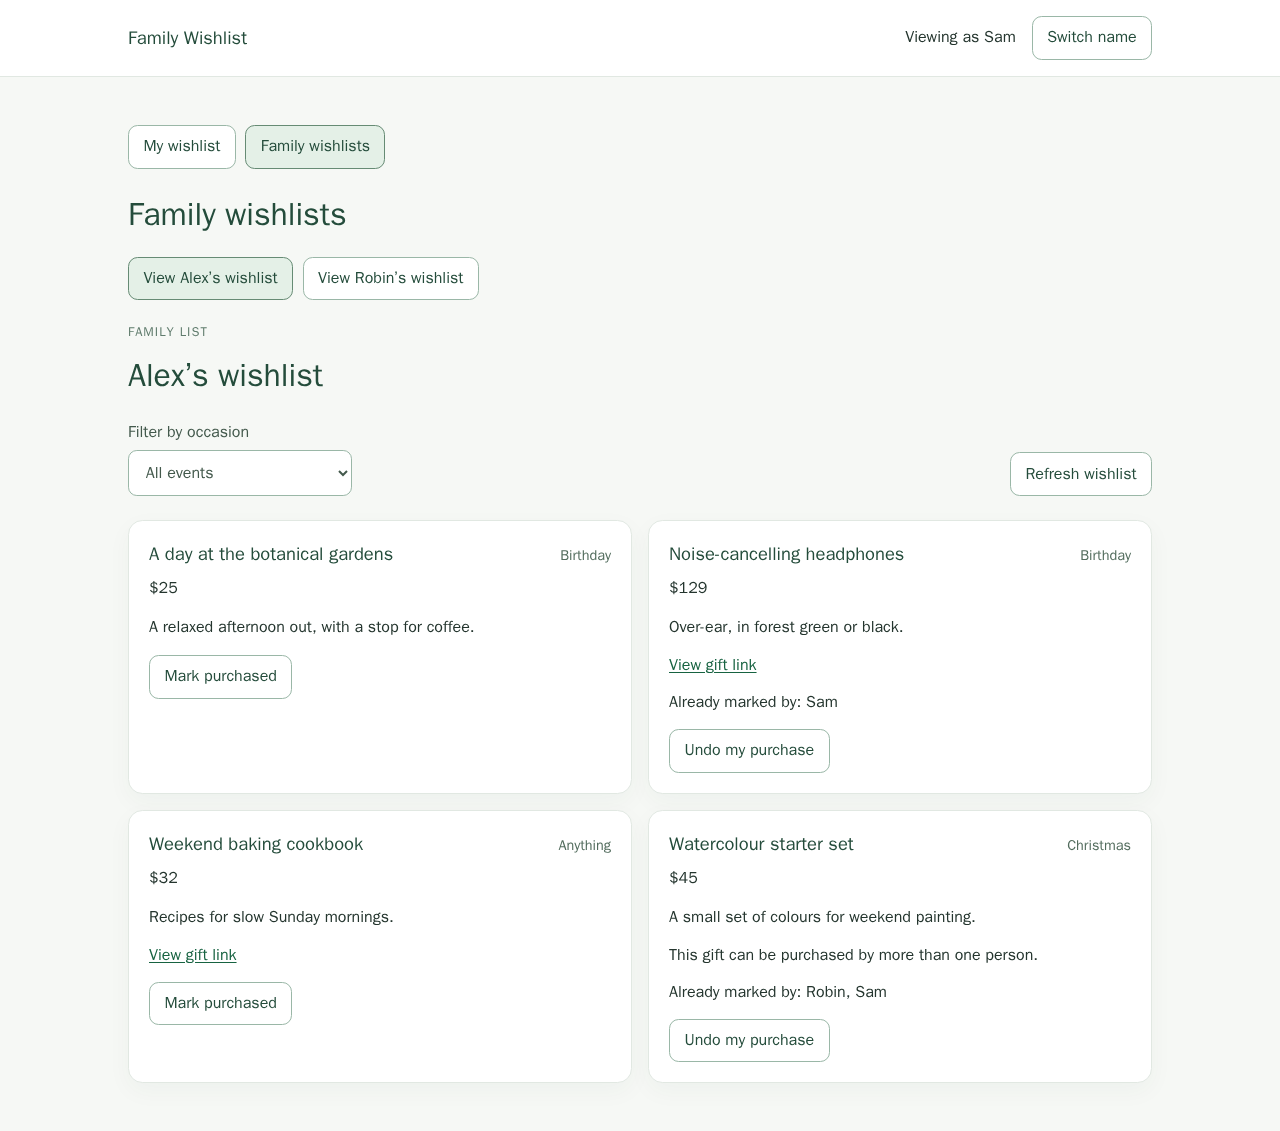
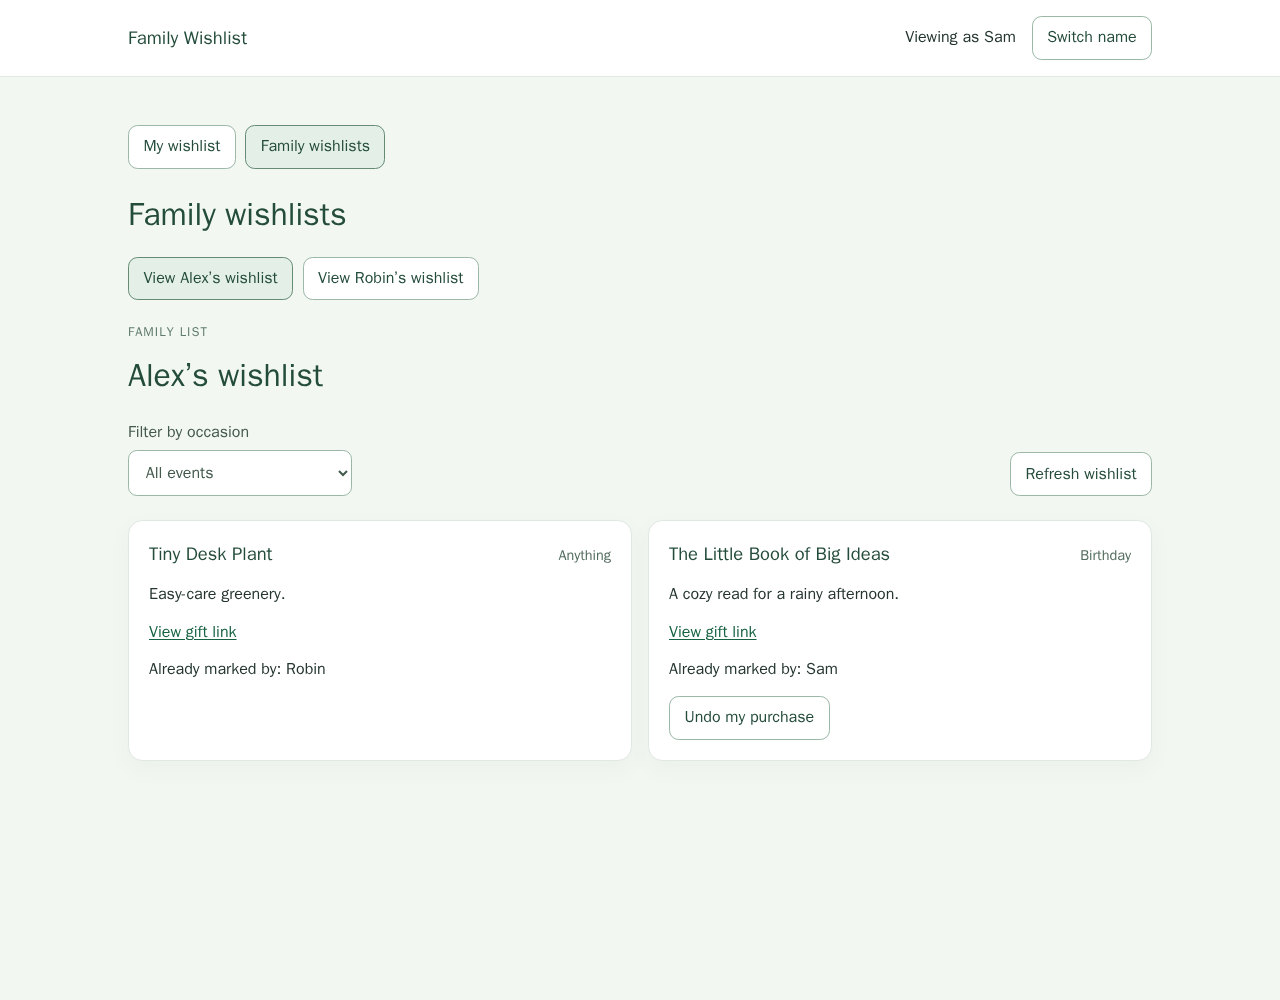
docs: refresh source-preview screenshots and guidance

diff --git a/docs/images/README.md b/docs/images/README.md
@@ -1,24 +1,26 @@
 # Screenshot provenance
 
-The README images are actual Chromium captures of the published
-`ghcr.io/klottick/present-wishlist:0.1.0` application, taken on 2026-10-16.
-They are not mockups, and no application styling was overridden for the captures.
+The README images are actual Chromium captures of the source at `f479492` (demo
+commands and UI task) taken on 2026-10-19. They are not captures of the older published
+`ghcr.io/klottick/present-wishlist:0.1.0` image, mockups, or styling overrides.
 
 | Image | Browser viewport | View |
 | --- | --- | --- |
-| `wishlist-owner-desktop.png` | 1280×900 | Alex managing four gift ideas; purchase details are absent. |
-| `wishlist-buyer-desktop.png` | 1280×1000 | Sam browsing Alex's list; own undo controls and Robin/Sam purchase marks are visible. |
-| `wishlist-mobile.png` | 390×844 | Alex filtering Christmas, which also includes Anything gifts; no horizontal overflow. |
+| `wishlist-owner-desktop.png` | 1280×900 | Alex's list with synthetic demo gifts; purchase details are absent. |
+| `wishlist-buyer-desktop.png` | 1280×1000 | Sam browsing Alex's list with synthetic purchase marks and buyer controls. |
+| `wishlist-mobile.png` | 390×844 | Alex's list on mobile, including the occasion filter; no horizontal overflow. |
 
 Images capture the full page, so their stored height may exceed the viewport.
 Names, gifts, prices and links are synthetic; external links use `example.com`.
-Only an isolated temporary YAML file, database volume and loopback port were
-used. No real family records, credentials, browser storage or developer tools
-appear in the images.
+The current source's `seed_demo` command populated a temporary YAML-configured
+SQLite database. Only isolated loopback ports, temporary database/config files,
+and private browser contexts were used. The owned app processes and temporary
+files were cleaned after capture. No real family records, credentials, browser
+storage or developer tools appear in the images.
 
-To refresh the screenshots, run the released image with disposable configuration
-and storage, populate fictional gifts and buyer marks, then use separate browser
-contexts for owner and buyer. Wait for completed list loading and fonts before
-capturing. Confirm owner purchase privacy, expected buyer controls and mobile
-overflow checks. Remove only the resources created for the capture, and update
-this record if the version or viewport changes.
+To refresh the screenshots, follow the isolated source-preview procedure in the
+task report or run the current source with disposable configuration and storage.
+Use separate browser contexts for owner and buyer. Wait for completed list loading
+and fonts before capturing. Confirm owner purchase privacy, expected buyer
+controls and mobile overflow checks. Remove only the resources created for the
+capture, and update this record if the source revision or viewport changes.

diff --git a/README.md b/README.md
@@ -22,7 +22,9 @@ to the internet or untrusted users; accounts and TLS are not included.
 
 ## Screenshots
 
-The screenshots show the released application with fictional names and gift data.
+The screenshots show a source-development preview, not the older released `0.1.0`
+image. They use fictional names and gift data; see the
+[screenshot provenance](docs/images/README.md).
 
 ### Your wishlist
 
@@ -42,6 +44,11 @@ Other family members can see purchase marks and coordinate their own purchases.
 <img src="docs/images/wishlist-mobile.png" alt="Alex's wishlist on a narrow mobile screen, with an occasion filter and vertically arranged gift cards" width="320">
 
 ## Quick start
+
+The released `0.1.0` image does not include the newer demo-data commands or UI
+shown in the source-preview screenshots. The quick start below intentionally
+continues to install that published release. To run the current source preview,
+follow [development setup](docs/development.md#run-the-application) instead.
 
 Install Docker Engine with Compose, or Docker Desktop in **Linux-container mode**.
 Images support Linux `amd64` and `arm64`; ARM requires a 64-bit OS. Python, Node.js
@@ -101,9 +108,9 @@ for validation rules, removing/reactivating entries and development paths.
    **Family wishlists** to browse someone else's list.
 2. Assign a gift to one occasion or leave it as **Anything**. An occasion filter
    includes Anything gifts; the Anything-only filter shows only unassigned gifts.
-3. Mark someone else's gift purchased. Ordinary gifts allow one buyer; gifts
-   with **Allow multiple purchases** allow one mark per different buyer. There is
-   no quantity field. Buyers can undo only their own marks.
+3. Mark someone else's gift purchased. Ordinary gifts allow one buyer; check
+   **Can be purchased multiple times.** to allow one mark per different buyer.
+   There is no quantity field. Buyers can undo only their own marks.
 4. Use the refresh control to see changes from other people. Live push updates
    are not provided.
 
@@ -129,7 +136,7 @@ environment settings, backup/restore, exact-version updates and troubleshooting.
 ## Development and documentation
 
 - [Development and testing](docs/development.md): Python/Node setup, local servers
-  and `bash scripts/verify.sh`.
+  and `bash scripts/verify.sh`, including safe demo-data commands.
 - [Releases and publisher reuse](docs/releases.md): multi-platform GHCR publication,
   recovery and adapting the reusable workflow to another stack.
 - [Documentation index](docs/README.md): all guides, design records and historical

diff --git a/docs/development.md b/docs/development.md
@@ -104,8 +104,9 @@ root:
 .venv/bin/python backend/manage.py reset_demo --yes
 ```
 
-In Docker, run `docker compose exec app python manage.py seed_demo` or
-`docker compose exec app python manage.py reset_demo --yes`. Seeding only uses
+In a locally built source image, run `docker compose exec app python backend/manage.py seed_demo`
+or `docker compose exec app python backend/manage.py reset_demo --yes`. These
+commands are not available in the published `0.1.0` image. Seeding only uses
 active profiles and events already present from configured YAML; it never creates
 or changes identities/events. Demo items carry an internal ownership marker, so
 reseed keeps edited examples and their marks intact. Reset requires `--yes` and
